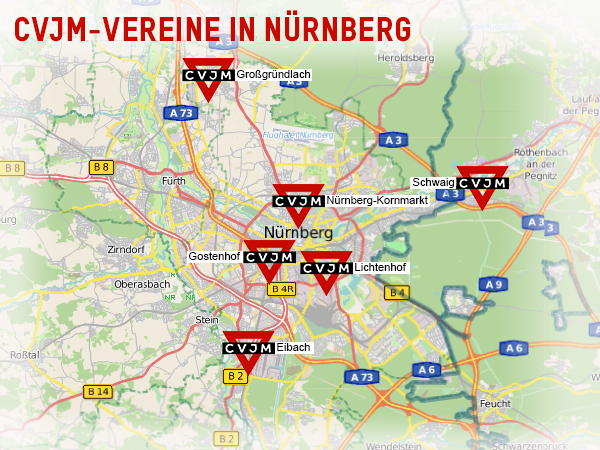
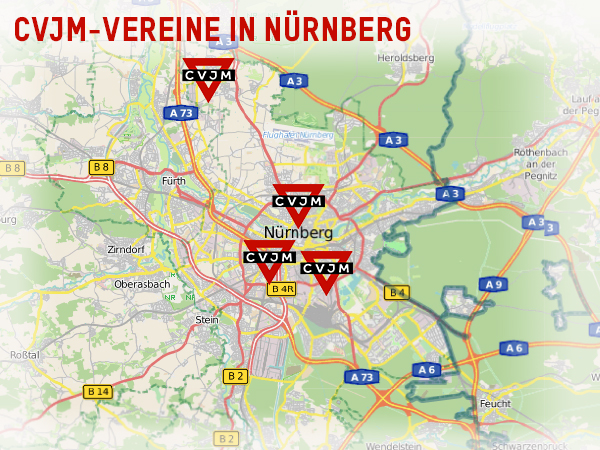
Änderungen vom 05.05.

diff --git a/style.css b/style.css
@@ -122,18 +122,17 @@ input,textarea {
 }
 
 .search_field {
+  width: 15em;
+  font-size: x-small;
   padding-top: 0;
   margin-top: 0;
   margin-right: 0px;
   padding-right: 0px;
-  -webkit-border-radius: 5px; 
-  -moz-border-radius: 5px; 
-  border-radius: 5px; 
   border: 1px solid #848484;
 }
 
 .search_go {
-  height: 1.2em;
+  height: 1em;
   margin-left: 0px;
   padding-left: 0px;
   vertical-align: middle;
@@ -364,8 +363,9 @@ a.newstitle:hover {
 }
 
 .evtermine_container {
-  margin-top: 3px;
-  margin-bottom: 3px;
+  margin-top: 1em;
+  margin-bottom: 1em;
+  line-height: 1.1em;
 }
 
 .evtermine_date {
@@ -403,13 +403,7 @@ a.evtermine_title:hover {
 
     /* Transparency */
     /* Fallback for web browsers that doesn't support RGBa */
-    background: rgb(128, 128, 128) transparent;
-    /* RGBa with 0.6 opacity */
-    background: rgba(128, 128, 128, 0.9);
-    /* For IE 5.5 - 7 first to digits is the alpha value 0.6 means 0.6 * 255 the rest is RGB*/
-    filter:progid:DXImageTransform.Microsoft.gradient(startColorstr=#E5808080, endColorstr=#E5808080);
-    /* For IE 8*/
-    -ms-filter: "progid:DXImageTransform.Microsoft.gradient(startColorstr=#E5808080, endColorstr=#E5808080)";
+    background-color: #CCCCCC;
 
     /* styling */
     min-height:200px;

diff --git a/sidebar.php b/sidebar.php
@@ -14,10 +14,8 @@
 	<map name="citymap" id="citymap">
 	  <area shape="rect" title="Gro&szlig;gr&uuml;ndlach" coords="182,56,234,103" href="<?php echo home_url(); ?>"  />
       <area shape="rect" title="Kornmarkt" coords="270,178,326,229" href="<?php echo home_url(); ?>" />
-      <area shape="rect" title="Schwaig" coords="455,163,509,211" href="<?php echo home_url(); ?>" />
       <area shape="rect" title="Gostenhof" coords="242,238,294,285" href="<?php echo home_url(); ?>" />
       <area shape="rect" title="Lichtenhof" coords="300,249,352,296" href="<?php echo home_url(); ?>" />
-      <area shape="rect" title="Eibach" coords="222,328,275,374" href="<?php echo home_url(); ?>" />
     </map>
     <!--<iframe width="100%" height="260" frameborder="0" scrolling="no" marginheight="0" marginwidth="0" src="https://maps.google.de/maps/ms?msa=0&amp;msid=202299304858622703127.0004eca77fc359d632122&amp;ie=UTF8&amp;t=m&amp;ll=49.430626,11.074905&amp;spn=0.116109,0.179214&amp;z=11&amp;output=embed"></iframe>-->
   </div>

diff --git a/header.php b/header.php
@@ -66,7 +66,7 @@ $parent_id = getTopmostParent();
                             'walker' => new Top_Menu_Walker() ));?>
     <div class="headerright searchform">
       <form role="search" method="get" id="searchform" action="/">
-      <input type="text" placeholder="Suchbegriff eingeben" size="30" name="s" id="s" class="search_field"<?php 
+      <input type="text" placeholder="Suchen..." name="s" id="s" class="search_field"<?php 
 	    if (array_key_exists('s', $_GET)) {
           echo 'value="' . $_GET["s"] . '"';
         }

diff --git a/freepage.php b/freepage.php
@@ -14,6 +14,10 @@ get_header(); ?>
   ?>
 </div>
 
-<?php require(locate_template('sidebar.php')); ?>
+<?php
+  $pics = array( 'Bildergalerie_Logo.jpg', 'Videogalerie_Logo.jpg', 'Podcast_Logo.jpg', 'Treppenhaus_Lounge_Logo.jpg');
+  $links = array( 'http://galerie.cvjm-nuernberg.de/', 'http://vimeo.com/cvjmnuernberg/videos',
+      'http://podcasts.cvjm-nuernberg.de/', 'http://www.treppenhaus-lounge.de');
+   require(locate_template('sidebar.php')); ?>
 
 <?php get_footer(); ?>
